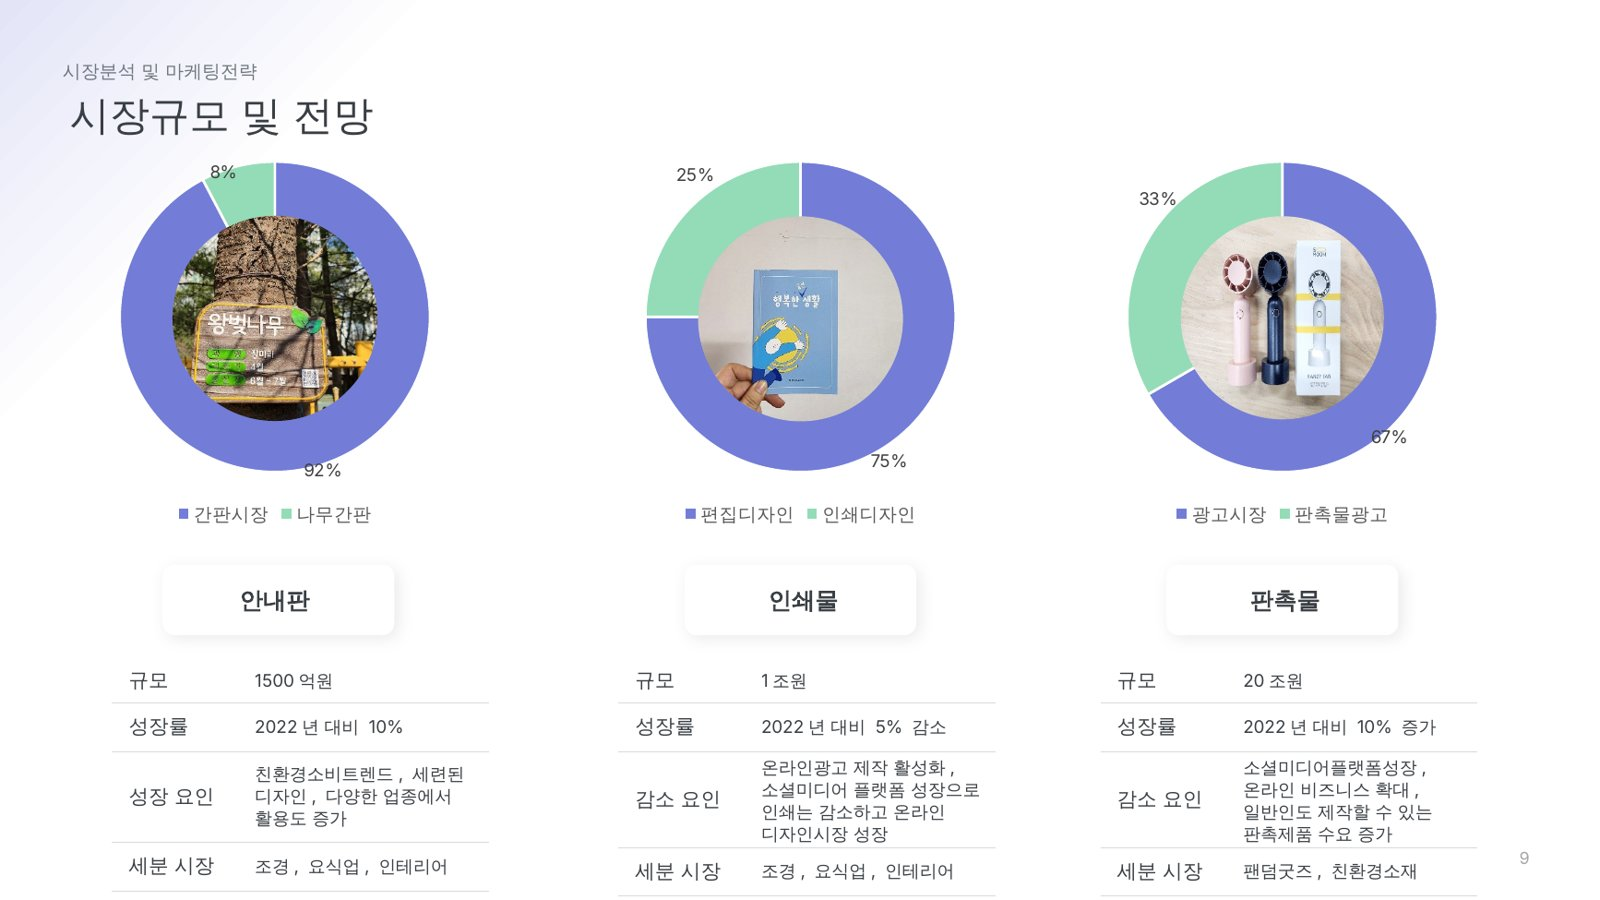
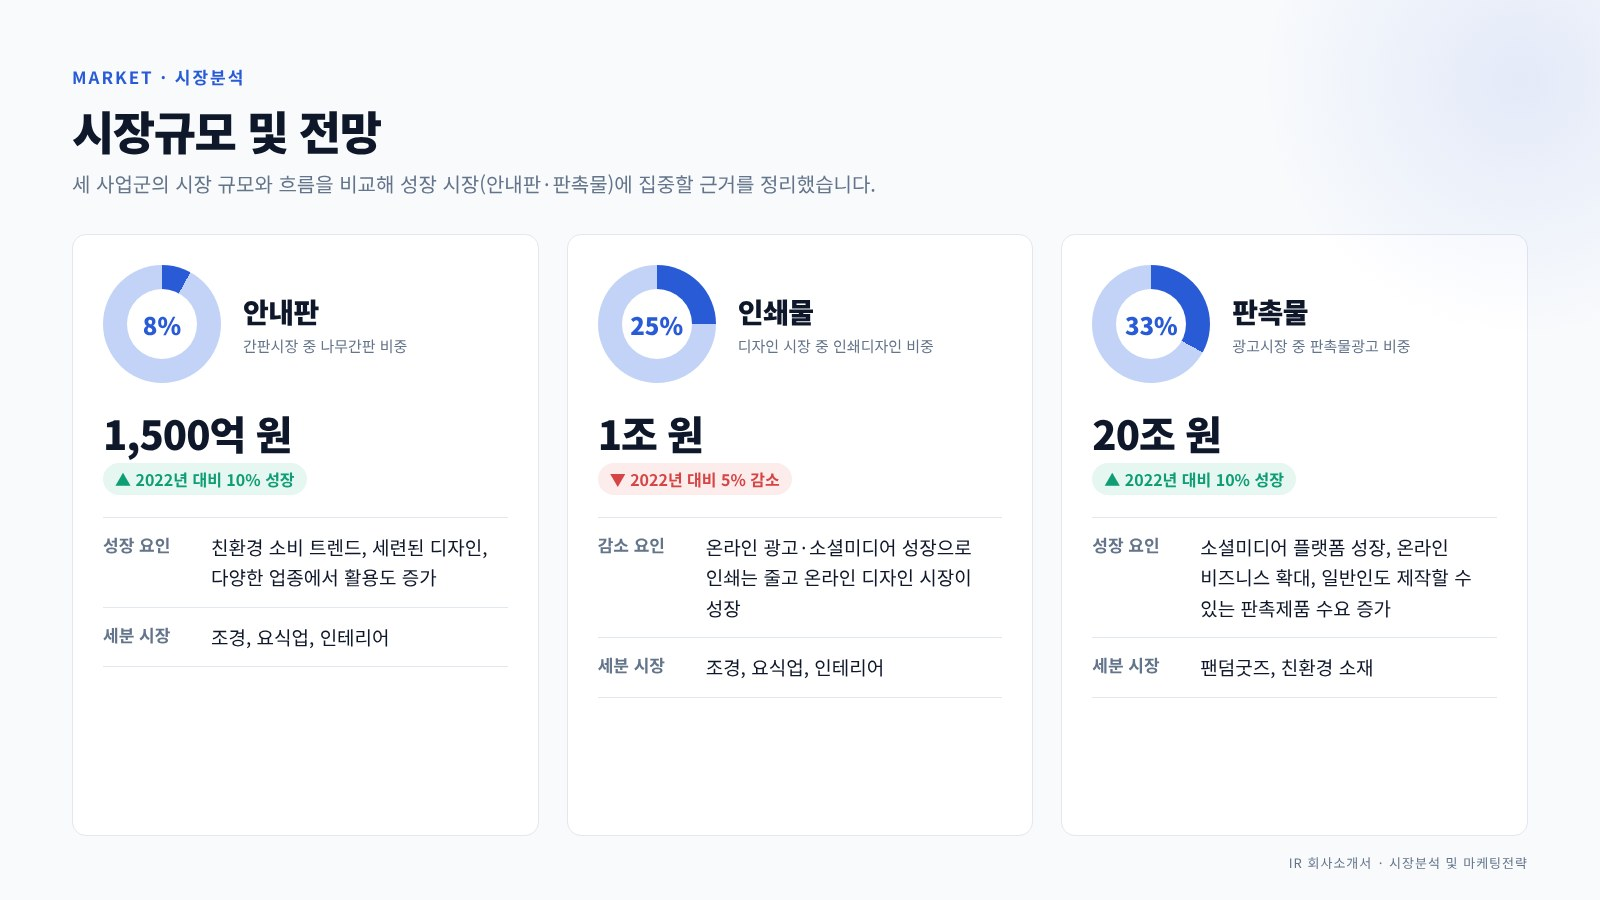
Redesign IR slide images in site style for legibility
Claude-Session: https://claude.ai/code/session_01VAQBYZ42i7kGP3DyQ4Ru2v

diff --git a/index.html b/index.html
@@ -241,7 +241,7 @@ const projects=[
  strategy:"4회 컨설팅에 대응하며 12개 프레임으로 회사를 진단해 BM 재정립·고객 접근·성과관리·사회적 가치 확대의 4대 과제를 도출했고, '지역가치 기반 B2G 디자인 플랫폼'으로 방향을 잡았습니다.",
  execution:"고객 문의·구매 데이터로 구매 결정 요인을 찾아 패키지 구성과 브랜드 메시지를 고치고 콘텐츠·영업자료에 적용했습니다. 결과는 IR 회사소개서로 정리했습니다(2023.11 작성, 2024.09 업데이트).",
  gallery:[{src:"media/ir-market.jpg",caption:"시장규모 및 전망 — 안내판·인쇄물·판촉물 3개 사업의 시장 규모와 성장·감소 요인 분석"},{src:"media/ir-marketing-strategy.jpg",caption:"마케팅 전략 — 공공기관 구매 데이터로 타깃 세분화, 가치 제안, 온·오프라인 채널 전략"},{src:"media/ir-swot.jpg",caption:"SWOT 분석 — 내부·외부 환경 진단과 SO·ST·WO·WT 교차 전략"}],
- mediaNote:"IR 회사소개서 중 일부 (직접 작성 · 재무·설비 페이지 제외)"},
+ mediaNote:"IR 회사소개서 중 시장분석·전략 3쪽 (직접 작성 · 웹용으로 재구성)"},
 
 {id:5,category:"work",featured:false,
  label:"GOV PROJECT · DATA VOUCHER",kpi:"2.3배",kpiLabel:"공공기관 계약 25 → 58건 · 팀 성과",
